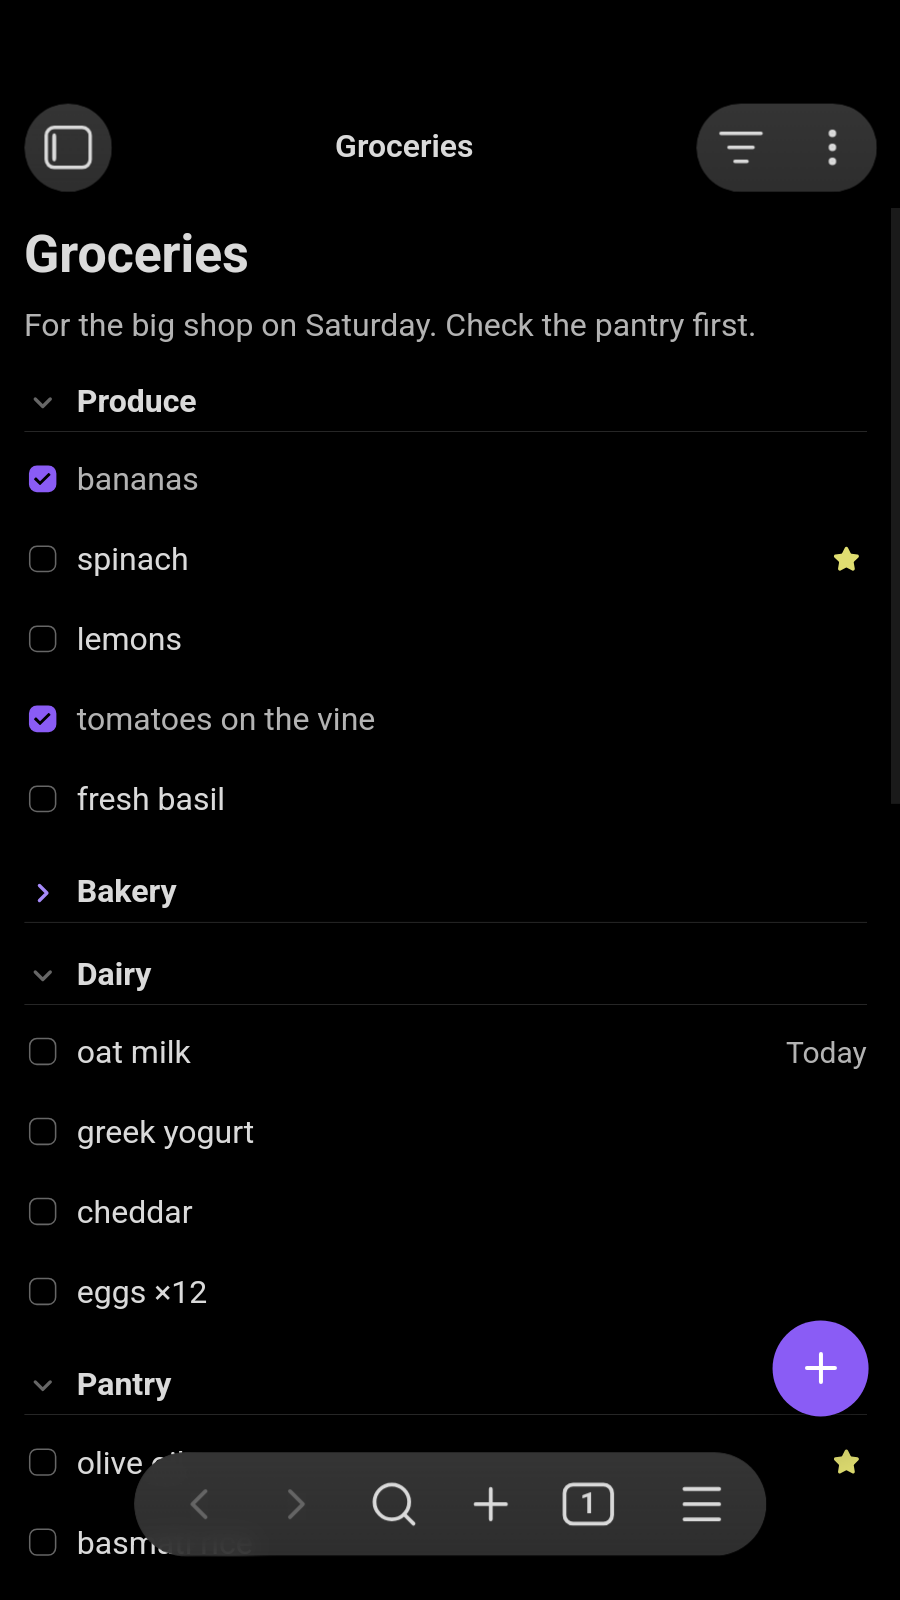
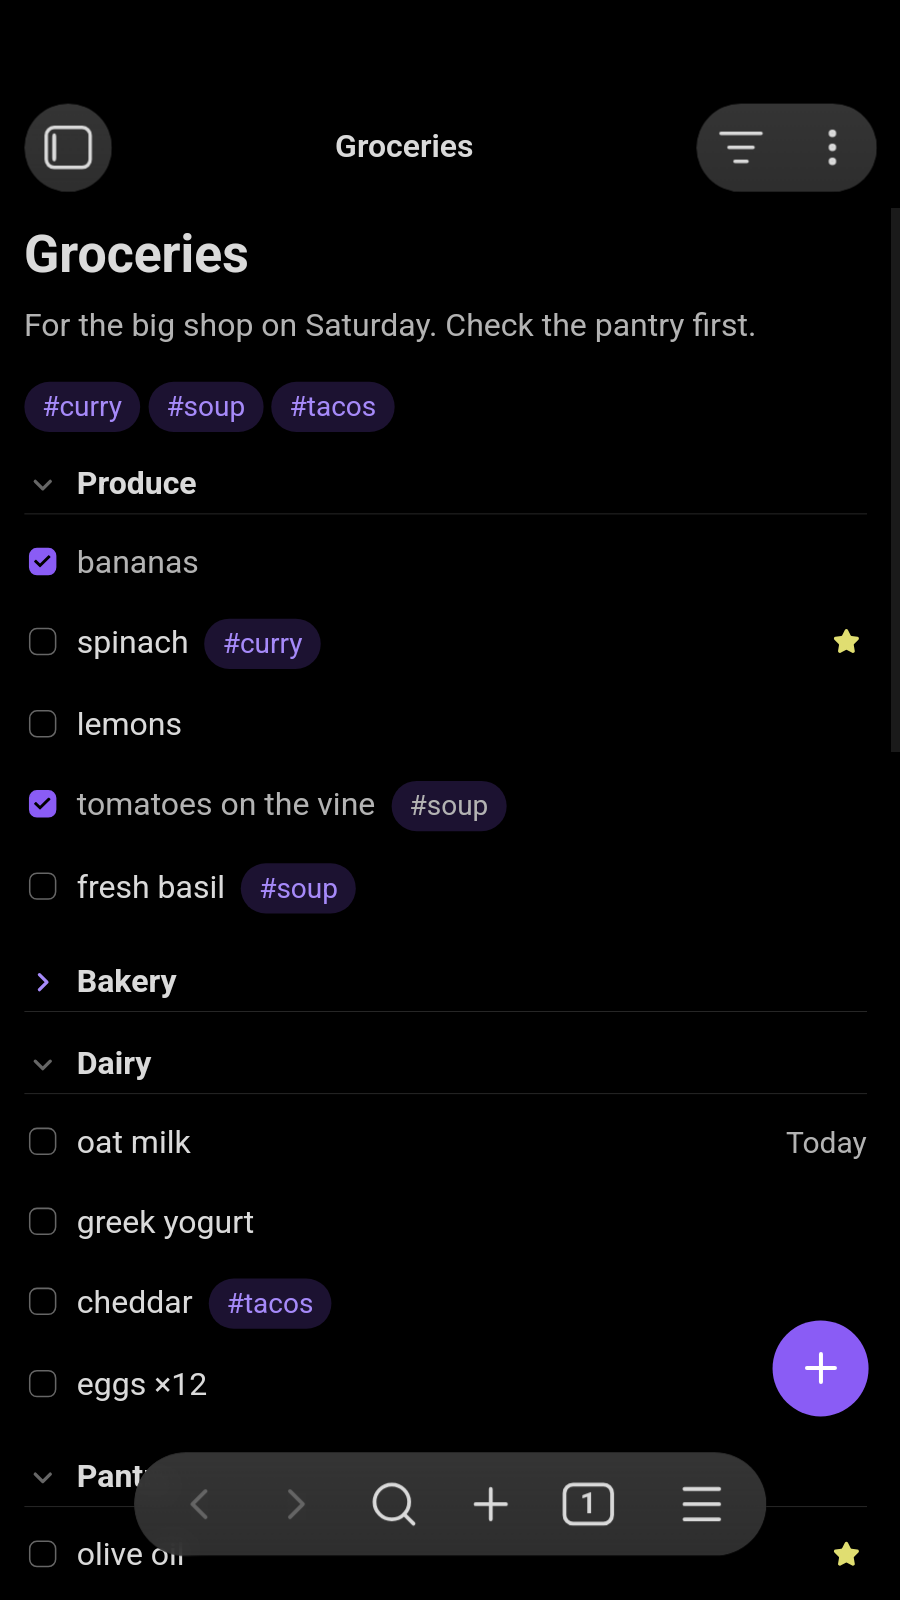
Release 1.4.0 (#369)
## What does this PR do?

Bumps the version to 1.4.0 with `npm version minor
--no-git-tag-version`. `minAppVersion` stays 1.13.4.

It also does the release step's picture check:

- **Cropped:** the README's GIFs show only the list's pane, or the
Schedule's sidebar, not the whole window: a scene's clip now applies to
a GIF as to a still. The listing's shots stay whole-window.
- **New in the README:** a tags GIF (an item gets #curry from its card,
then the strip filters by it) and a selecting GIF (three rows dragged
under a heading and starred), each with a line of text, and feature-list
lines for them and the filter changes.
- **Demo vault:** a few groceries carry #curry, #soup or #tacos.
- **Retaken:** every README GIF, the notes still (the card's tag
button), and the listing's desktop-1, -2 and -4 and phone-1. desktop-3
and -5 changed only in their dates, so they stay.
- **New listing shot:** phone-2-select, Groceries with three items
selected and the bar.
- `tick-and-drag` ends with Done, as its hold now selects.

## Why is this change needed?

Tags (#325), selecting several items (#79) and the filter changes (#326,
#328) aren't released, and the pictures showed the whole Obsidian
window.

## How was this tested?

- `npm run lint`, `npm run build` and `npm test` (1355 passed).
- `node scripts/check-docs.mjs`: passed, 59 files.
- `node --test "scripts/pictures/*.test.mjs"`: 45 passed, on each
commit.
[…]

diff --git a/README.md b/README.md
@@ -16,13 +16,21 @@ Ticked items hide after a day, or the time you choose in the settings. The filte
 
 ![In a todo list, an item is ticked and grays out, then the filter icon in the pane's header opens a field, its toggle brings back three items ticked days ago with blue checkboxes, and typing book leaves four items, three that mention it and one whose note has its letters in order, until the filter icon closes the field again](https://raw.githubusercontent.com/princelundgren/PrinceListsObsidianPlugin/main/docs/images/filter.gif)
 
+Tag items to group them across sections. The list's tags sit above its items, and a click shows only the items that have one.
+
+![In a grocery list, lemons is opened and gets the curry tag from the tag button, picked from the suggestions, then #curry in the strip of tags above the list leaves the five items for the curry, under their headings](https://raw.githubusercontent.com/princelundgren/PrinceListsObsidianPlugin/main/docs/images/tags.gif)
+
+Hold an item to select it, then click or tap others to add them. Move, tick, star, date or delete them all at once.
+
+![In a todo list, a row is held until it is selected and two more are clicked to join it, then dragging one takes all three under the Admin heading, and Star in the bar at the bottom stars them](https://raw.githubusercontent.com/princelundgren/PrinceListsObsidianPlugin/main/docs/images/select-several.gif)
+
 Each item has a title, a date, a star and powerful notes, with a toolbar for formatting.
 
 <img src="https://raw.githubusercontent.com/princelundgren/PrinceListsObsidianPlugin/main/docs/images/notes.webp" alt="An open item whose notes hold bold text, a link, a checklist, a table and a picture, with the format bar under the notes" width="520">
 
 The Schedule shows the dated items from all your lists.
 
-![The Schedule opens from the ribbon in the right sidebar and scrolls through dated items from several lists, under Today, Tomorrow, Next 7 days and the start of Later](https://raw.githubusercontent.com/princelundgren/PrinceListsObsidianPlugin/main/docs/images/schedule.gif)
+![The Schedule in the right sidebar scrolls through dated items from several lists, under Today, Tomorrow, Next 7 days and the start of Later](https://raw.githubusercontent.com/princelundgren/PrinceListsObsidianPlugin/main/docs/images/schedule.gif)
 
 It works great on your phone too.
 
@@ -51,8 +59,11 @@ You can embed lists in normal notes.
 
 - **Add** with the floating **+**, and **drag** to reorder. The settings can put a **+** in the list's header instead, or as well, on desktop, mobile or both.
 - **Star** an item and give it a date.
+- **Tags:** write a tag on an item, or add it from the tag button in its card, with suggestions. Items show their tags as labels.
+- **Select several:** hold an item, or choose **Select** in its menu. On desktop, Cmd+click, Shift+click and Shift+Up or Down select too. A bar then moves, ticks, stars, dates or deletes them all at once, with Undo, and dragging one drags them all. A selected heading brings its section.
 - **Tick and forget:** ticked items hide after a day, or after a time you choose, from at once to a week.
-- **Find:** the filter icon in a list's header opens a field that filters it by title and notes, matching the letters you type in order, so "mlk" finds "oat milk", and by date as written, such as "2026-11". Toggles beside it show only starred items, or archived items too. The field stays open until the icon or Escape closes it. The Schedule has one beside its title, with the starred toggle.
+- **Find:** the filter icon in a list's header opens a field that filters it by title and notes, matching the letters you type in order, so "mlk" finds "oat milk", and by date as written, such as "2026-11". Toggles beside it show only starred items, or archived items too. Headings stay, a message says when nothing matches, and a button clears the field. The field stays open until the icon or Escape closes it. The Schedule has one beside its title, with the starred toggle.
+- **Filter by tag:** a strip of the list's tags sits above its items. Click a tag to show only the items that have it, or two to show those that have both. A setting shows the strip always or only while the filter is open. The Schedule has one too. Nested tags count under their parent, and case doesn't matter.
 - **Delete** with Undo.
 
 **Notes on an item**
@@ -73,7 +84,7 @@ You can embed lists in normal notes.
 
 - **Shortcuts:** Cmd+Enter adds an item, Cmd+F filters a list or the Schedule, Cmd+Shift+A shows or hides archived items, Cmd+Z undoes, and Cmd+B, Cmd+I and Cmd+K format. Use Ctrl on Windows and Linux.
 - **Right-click menus** on items, headings, pictures and the list. On desktop, text in a card or the list's note gets a menu too: add a link, format, and paste with or without formatting.
-- **Made for touch:** a floating **+**, finger-sized buttons, and hold to drag.
+- **Made for touch:** a floating **+**, finger-sized buttons, and hold to select or drag.
 - **Fits your theme,** light or dark.
 
 ## Quick start

diff --git a/demo/vault/Groceries.md b/demo/vault/Groceries.md
@@ -7,12 +7,12 @@ For the big shop on Saturday. Check the pantry first.
 - [ ] bananas
 
 	Not too ripe, they're for the whole week.
-- [ ] spinach ⭐
+- [ ] spinach ⭐ #curry
 - [ ] lemons
 
 	3 or 4, for the fish and the dressing.
-- [ ] tomatoes on the vine
-- [ ] fresh basil
+- [ ] tomatoes on the vine #soup
+- [ ] fresh basil #soup
 
 	For the [[Weeknight dinners#Ideas|tomato and lentil soup]] and a *pesto*.
 
@@ -23,7 +23,7 @@ For the big shop on Saturday. Check the pantry first.
 
 ## Bakery
 - [ ] sourdough loaf
-- [ ] tortillas
+- [ ] tortillas #tacos
 
 	Small ones, for the black bean tacos.
 
@@ -32,19 +32,19 @@ For the big shop on Saturday. Check the pantry first.
 - [ ] greek yogurt
 
 	**Full fat**, the big tub. *Plain*, not vanilla.
-- [ ] cheddar
+- [ ] cheddar #tacos
 - [ ] eggs ×12
 
 ## Pantry
 - [ ] olive oil ⭐
 
 	Extra virgin, the 1 l bottle. ==Not the spray.==
-- [ ] basmati rice
-- [ ] chickpeas
+- [ ] basmati rice #curry
+- [ ] chickpeas #curry
 
 	- two cans for the curry
 	- one for hummus
-- [ ] coconut milk
+- [ ] coconut milk #curry
 - [x] coffee beans ✔ 2026-10-22 18:40
 
 ## Household
